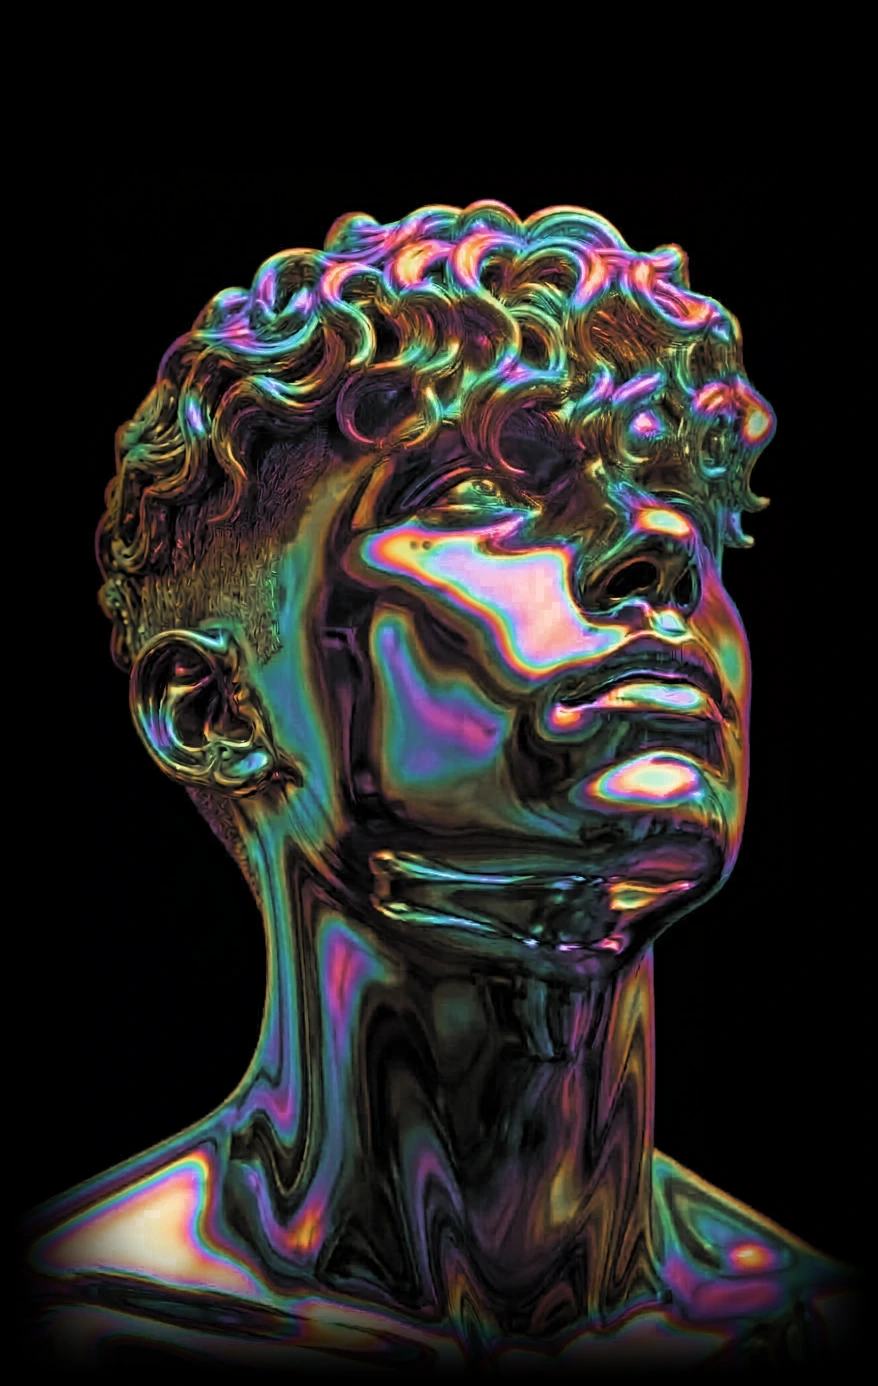
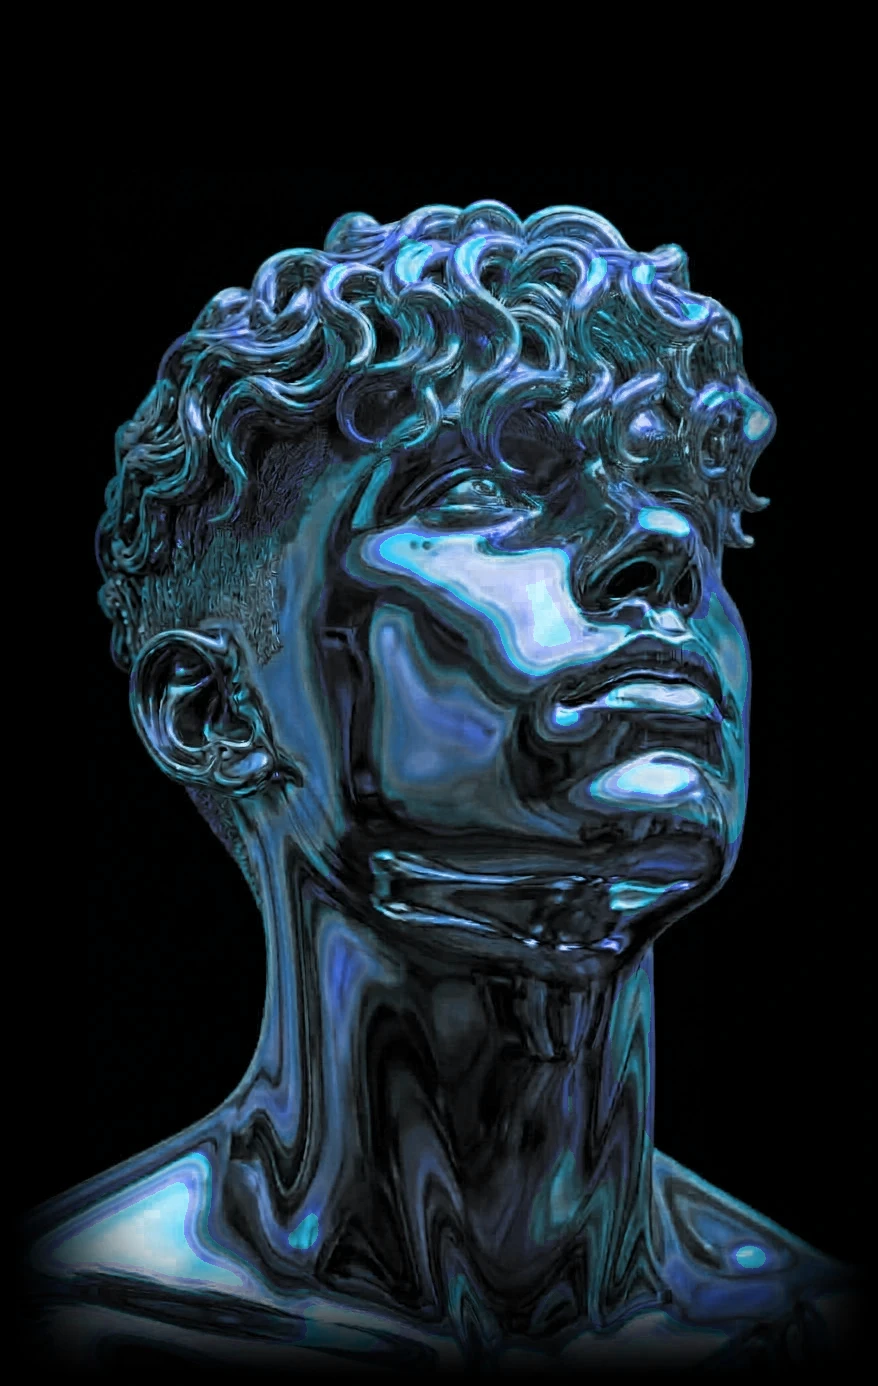
Hero: silver dither back; underlying bust recoloured to neon-blue iridescence

Changed region(s): [[0.0615, 0.1241, 0.9226, 0.9928], [0.492, 0.8997, 0.5535, 0.9618], [0.4613, 0.8377, 0.492, 0.8687]]

diff --git a/src/App.jsx b/src/App.jsx
@@ -181,7 +181,7 @@ export default function App() {
               pattern="floyd"
               pixelSize={2}
               inkColor="#06060b"
-              paperColor="#3aa0ff"
+              paperColor="#cfd6df"
               revealRadius={200}
               softness={0.6}
               linger={1}
